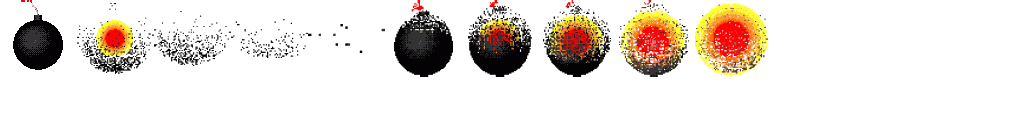
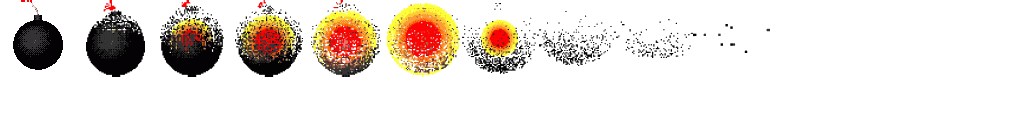
Removes bomb after animation ends

Changed region(s): [[0.0625, 0.0, 0.75, 0.5938]]

diff --git a/core/src/com/mygdx/game/CCSBombDrop.java b/core/src/com/mygdx/game/CCSBombDrop.java
@@ -29,7 +29,6 @@ public class CCSBombDrop extends ApplicationAdapter {
 	private Drawable drwTouchpad;
 	private float fSpeed;
 	TextureAtlas taBomberman, taBombDrop, taBombExplode;
-	Texture txBomb;
 	Sprite spFG, spBG, spBomberman;
 	ImageButton.ImageButtonStyle ibsBombDrop;
 	ImageButton ibBombDrop;
@@ -57,13 +56,12 @@ public class CCSBombDrop extends ApplicationAdapter {
 		touchpadStyle.background = drwTouchbg;
 		touchpadStyle.knob = drwTouchpad;
 
-		touchpad = new Touchpad(10, touchpadStyle);
 		//Initiate the touchpad based on the style we just created
-		touchpad.setBounds(30, 30, 100, 100);
+		touchpad = new Touchpad(10, touchpadStyle);
 		//set where the touchpad will be on the screen
-		stage = new Stage();
+		touchpad.setBounds(30, 30, 100, 100);
 		//create the stage and add the touchpad to it
-
+		stage = new Stage();
 		stage.addActor(touchpad);
 		Gdx.input.setInputProcessor(stage);
 
@@ -71,15 +69,11 @@ public class CCSBombDrop extends ApplicationAdapter {
 		taBomberman = new TextureAtlas(Gdx.files.internal("bomberman.txt"));
 		spBomberman = new Sprite(taBomberman.findRegion("frame_1"));
 		spBomberman.setPosition(Gdx.graphics.getWidth() / 2 - spBomberman.getWidth() / 2, Gdx.graphics.getHeight() / 2 + spBomberman.getHeight() / 2);
-		fSpeed = 5;
 		//set the default speed to multiply by when the touchpad is moved around to move the rect
+		fSpeed = 5;
 
-		//Load bomb image and create an array list of bombs
-		taBombExplode = new TextureAtlas(Gdx.files.internal("BombExploding/BombExploding.atlas"));
-//		txBomb = new Texture(Gdx.files.internal("Bomb.png"));
-		arlBombs = new ArrayList<Bomb>();
-
-		//Create an image button: https://github.com/captainkesty/imagebutton.git
+		//Create an image button to "drop a bomb" when pressed
+		//https://github.com/captainkesty/imagebutton.git
 		//https://github.com/MatthewBrock/TheDeepDarkTaurock.git
 		taBombDrop = new TextureAtlas("BombBtn.atlas");
 		skBombDrop = new Skin();
@@ -90,20 +84,24 @@ public class CCSBombDrop extends ApplicationAdapter {
 		ibsBombDrop.checked = skBombDrop.getDrawable("bombbtnON");
 		ibBombDrop = new ImageButton(ibsBombDrop);
 		ibBombDrop.setSize(120, 120);
-		ibBombDrop.setPosition(Gdx.graphics.getWidth() - (ibBombDrop.getWidth()+30), 30);
+		ibBombDrop.setPosition(Gdx.graphics.getWidth() - (ibBombDrop.getWidth() + 30), 30);
 		ibBombDrop.addListener(new ChangeListener() {
 			@Override
 			public void changed(ChangeEvent event, Actor actor) {
 				System.out.println("Bomb dropped");
-				makeBomb(); // Create a bomb when button is pressed
+				makeBomb(); // Create a bomb
 			}
 		});
 		stage.addActor(ibBombDrop);
+
+		//Load file for bomb animation and create an array list for bombs
+		taBombExplode = new TextureAtlas(Gdx.files.internal("BombExploding/BombExploding.atlas"));
+		arlBombs = new ArrayList<Bomb>();
 	}
 
-	//Creating sprites using a button: https://github.com/MatthewBrock/TheDeepDarkTaurock/tree/FireBallScratch/core/src/taurockdeepdark
+	//Adding sprites using a button: https://github.com/MatthewBrock/TheDeepDarkTaurock/tree/FireBallScratch/core/src/taurockdeepdark
 	public void makeBomb() {
-		arlBombs.add(new Bomb(taBombExplode, /*txBomb,*/ spBomberman.getX(), spBomberman.getY(), camera));
+		arlBombs.add(new Bomb(taBombExplode, spBomberman.getX(), spBomberman.getY()));
 	}
 
 	public ArrayList<Bomb> getBombs() {
@@ -123,8 +121,8 @@ public class CCSBombDrop extends ApplicationAdapter {
 		//Render each bomb in the array
 		for (int i = 0; i < arlBombs.size(); i++) {
 			arlBombs.get(i).render();
-			if (arlBombs.size() == 4) {
-				arlBombs.remove(i--);
+			if (arlBombs.get(i).isExploded) {	//Remove bomb once animation ends
+				arlBombs.remove(i);
 				System.out.println("Bomb removed");
 			}
 		}

diff --git a/core/src/com/mygdx/game/Bomb.java b/core/src/com/mygdx/game/Bomb.java
@@ -1,6 +1,5 @@
 package com.mygdx.game;
 
-import com.badlogic.gdx.graphics.OrthographicCamera;
 import com.badlogic.gdx.graphics.g2d.Sprite;
 import com.badlogic.gdx.graphics.g2d.SpriteBatch;
 import com.badlogic.gdx.graphics.g2d.TextureAtlas;
@@ -11,43 +10,44 @@ import com.badlogic.gdx.graphics.g2d.TextureAtlas;
  */
 public class Bomb {
     Sprite[] spBomb;
-//    Sprite spBomb;
     SpriteBatch spriteBatch;
-    OrthographicCamera camera;
     int j, nSpeed;
+    boolean isExploded;
 
-    Bomb(TextureAtlas taBombExplode, /*Texture txBomb,*/ float fX, float fY, OrthographicCamera camera_) {
-        camera = camera_;
+    Bomb(TextureAtlas taBombExplode, float fX, float fY) {
         spriteBatch = new SpriteBatch();
-//        spBomb = new Sprite(txBomb);
-//        spBomb.setOrigin(spBomb.getHeight()/2, spBomb.getWidth()/2);
-//        spBomb.setPosition(fX, fY);
-//        spBomb.setSize(50, 50);
-        spBomb = new Sprite[14];
+        isExploded = false;
+        spBomb = new Sprite[16];
         j = 0;
         nSpeed = 0;
-        for(int a = 0; a < 14; a++) {
-            spBomb[a] = new Sprite(taBombExplode.findRegion("frame_"+a));
+
+        //Loop through regions of the TextureAtlas and assign each to an index of the array
+        for(int a = 0; a < 16; a++) {
+            spBomb[a] = new Sprite(taBombExplode.findRegion("frame_"+ a));
             spBomb[a].setOrigin(spBomb[a].getHeight()/2, spBomb[a].getWidth()/2);
             spBomb[a].setPosition(fX, fY);
             spBomb[a].setSize(50, 50);
         }
-
     }
 
     public void render () {
         spriteBatch.begin();
-//        spBomb.draw(spriteBatch);
         spBomb[j].draw(spriteBatch);
-        //nSpeed changes the time interval at which the sprites are drawn
-        nSpeed++;
-        if (nSpeed%6 == 0) {
-            if (j == 13) { //Make sure index stays within the bounds the array
-                j = 0;
-            } else {
+        nSpeed++;   //nSpeed changes the time interval at which the sprites are drawn
+        if (nSpeed%8 == 0) {
+            isExploded = isExploded(j);
+            if (!isExploded(j)) {
                 j++;
             }
         }
         spriteBatch.end();
+    }
+
+    //Check if index is at the end of the animation
+    public boolean isExploded(int j) {
+        if (j == 15) {
+            return true;
+        }
+        return false;
     }
 }
